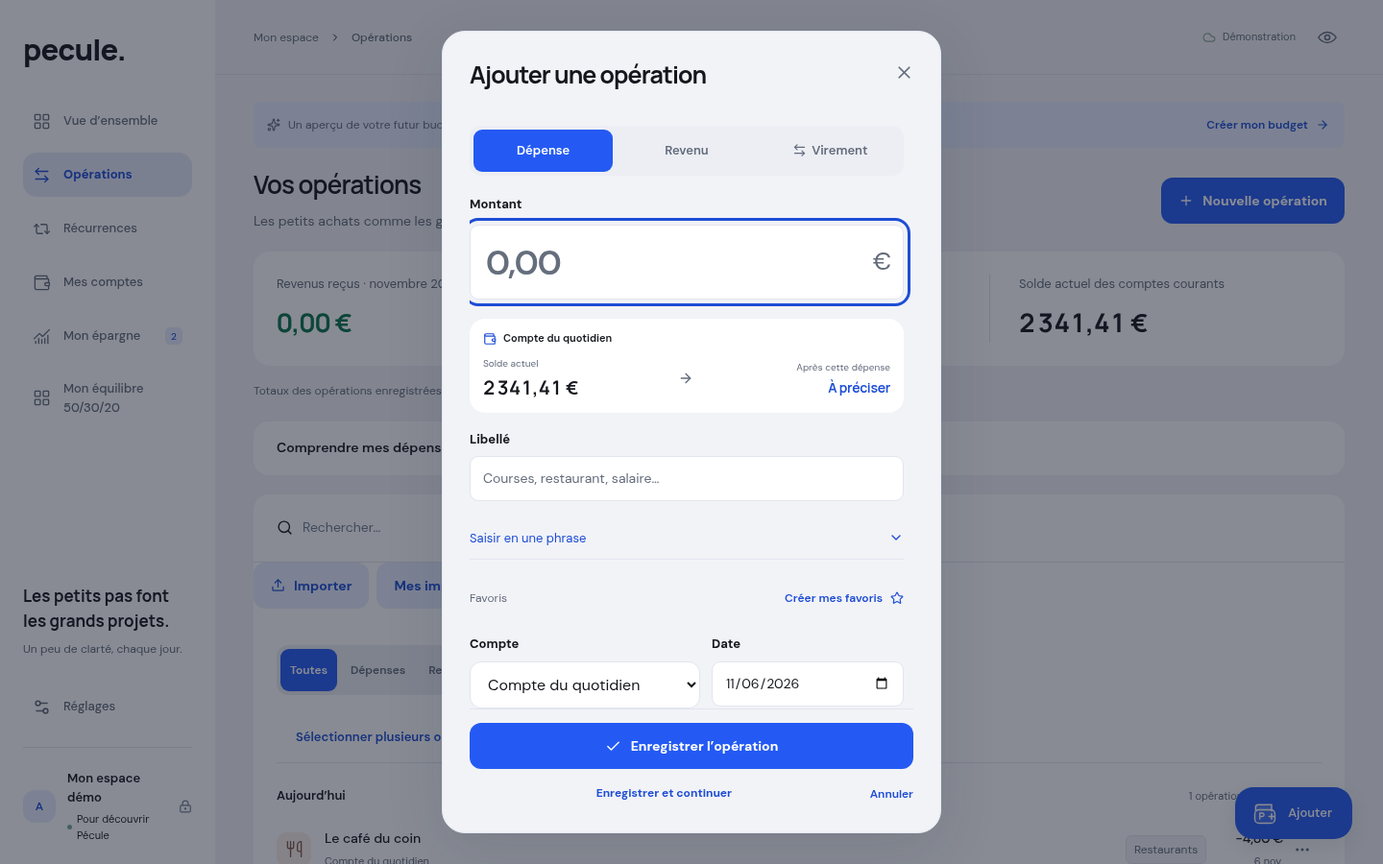
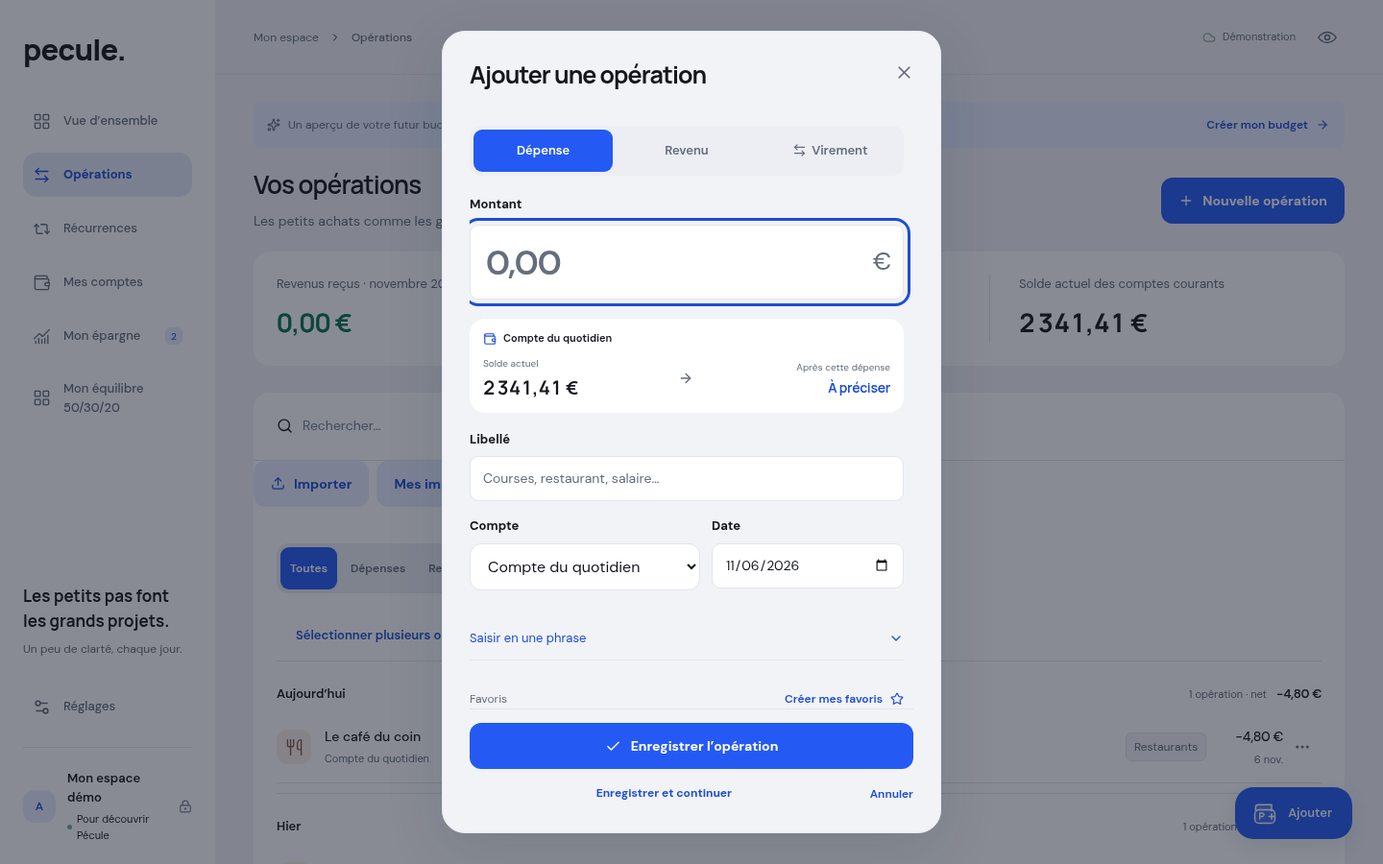
Improve mobile readability across budget pages and forms

diff --git a/app/budget-app.tsx b/app/budget-app.tsx
@@ -296,7 +296,7 @@ function BudgetAppContent({user}:BudgetAppProps){
       {page!=="overview"&&<div className="page-heading"><div><h1>{pageTitles[page]}</h1><p>{page==="plan"?"Vos besoins, vos envies et votre épargne, au même endroit.":page==="transactions"?"Les petits achats comme les grandes étapes.":page==="recurring"?"Les rentrées et les sorties d’argent, sans les surprises.":page==="accounts"?"Une vision claire de votre argent, où qu’il soit.":page==="goals"?"Chaque petit pas vous rapproche de ce qui compte.":"Un budget qui s’adapte à votre quotidien."}</p></div>{page!=="settings"&&page!=="plan"&&<button type="button" className="primary" onClick={()=>open({type:page==="accounts"?"account":page==="goals"?"goal":page==="recurring"?"rule":"transaction"})}><Plus size={16}/>{page==="accounts"?"Ajouter un compte":page==="goals"?"Créer un objectif":page==="recurring"?"Ajouter une récurrence":"Nouvelle opération"}</button>}</div>}
       <PendingOperations onEditingChange={setPendingEditing} onInspect={item=>open({type:"transaction",item})} entries={offline.entries} errors={offline.errors} error={offline.error} budget={b} hidden={hidden} working={offline.working} onRetry={()=>void offline.flush()} onChanged={()=>void offline.refresh()} onRemove={entry=>open({type:"confirm",title:"Retirer cette saisie locale ?",message:"Cette opération en attente sera retirée de cet appareil. Aucune opération du serveur ne sera supprimée.",action:async()=>{if(!await removePendingOperations(entry.userId,[entry.id],[entry]))throw new Error("Cette saisie a changé dans un autre onglet. Relisez-la avant de la retirer.");await offline.refresh();return true;}})}/>{page==="overview"&&<ClarteDashboard pending={offline.entries.length} budget={b} today={today} hidden={hidden} demo={demo} online={online} saving={busy} loadError={loadError} onWalletAccount={a=>open({type:"wallet-account",accountId:a.id})} onTransfer={()=>open({type:"transfer"})} onImport={()=>open({type:"import"})} onToggleHidden={()=>{setHidden(!hidden);}} onSettings={()=>navigate("settings")} onAdd={()=>b.accounts.length?open({type:"transaction"}):open({type:"account"})} onCalculate={()=>open({type:"calculation"})} onAccounts={()=>navigate("accounts")} onAccount={a=>{setAccountFilter(a.id);setTypeFilter("all");setMonth(today.slice(0,7));navigate("transactions");}} onAdjustAccount={a=>open({type:"balance",accountId:a.id})} onTransaction={t=>open({type:"transaction",item:t})} onUpcoming={t=>{const rule=b.rules.find(r=>r.id===t.ruleId);open(rule?{type:"rule",item:rule}:{type:"transaction",item:t});}} onTransactions={()=>{setMonth(today.slice(0,7));navigate("transactions");}} onRecurring={()=>navigate("recurring")} onGoals={()=>navigate("goals")} onPlan={()=>navigate("plan")} onAddAccount={()=>open({type:"account"})} capture={<CaptureRoutine budget={b} today={today} hidden={hidden} saving={busy} onAdd={()=>b.accounts.length?open({type:"transaction"}):open({type:"account"})} onFavorite={openFavorite} onFavorites={()=>open({type:"favorites"})} onReview={()=>open({type:"review"})} onCatchup={()=>open({type:"review",date:catchupDate(b,today)})} onReminders={()=>navigate("settings")}/>} chart={<ForecastOutlook budget={b} today={today} hidden={hidden}/>}/>}
       {page==="plan"&&<SpendingPlan budget={b} today={today} month={month} setMonth={setMonth} hidden={hidden} saving={busy} onSave={save} onOperations={()=>{setMonth(today.slice(0,7));navigate("transactions");}}/>}
-      {page==="transactions"&&<>{accountFilter!=="all"&&b.accounts.some(a=>a.id===accountFilter)&&<section className="account-ledger-context" aria-label="Compte sélectionné"><div><span>{b.accounts.find(a=>a.id===accountFilter)?.name}</span><strong>{m(accountBalance(b,accountFilter,today))}</strong><small>Solde actuel</small></div><button type="button" className="text-button" onClick={()=>setAccountFilter("all")}>Tous les comptes</button></section>}<section className="metric-strip"><div><span>Revenus reçus · {monthName}</span><strong className="positive">{m(monthIncome,true,true)}</strong></div><div><span>Dépenses enregistrées · {monthName}</span><strong>{m(monthSpent)}</strong></div><div><span>Solde actuel des comptes courants</span><strong>{m(o.total)}</strong></div></section><p className="metric-note">Totaux des opérations enregistrées pour la période et les filtres choisis, hors virements et opérations futures.</p><SpendingInsights key={month} budget={b} month={month} today={today} hidden={hidden}/><section ref={operationMotion} className="card transactions-card"><div className="toolbar"><div className="search-input"><Search size={17}/><input aria-label="Rechercher une opération" placeholder="Rechercher…" value={query} onChange={e=>setQuery(e.target.value)}/>{query&&<button type="button" className="icon-button" aria-label="Effacer la recherche" onClick={e=>{setQuery("");e.currentTarget.parentElement?.querySelector("input")?.focus();}}><X size={16}/></button>}</div>{compact&&<button type="button" className="secondary operation-filter-trigger" aria-label={`Filtrer les opérations, ${filterCount} filtre${filterCount>1?"s":""} actif${filterCount>1?"s":""}`} aria-haspopup="dialog" onClick={()=>open({type:"filters"})}><Funnel size={17}/>Filtrer{filterCount>0&&<span className="filter-count">{filterCount}</span>}</button>}</div><LedgerTools compact={compact}><div className="toolbar-actions"><button type="button" className="secondary compact" onClick={()=>open({type:"import"})}><Upload size={15}/>{importDraft?"Reprendre l’import":"Importer"}</button><button type="button" className="secondary compact" onClick={()=>open({type:"imports"})}>Mes imports</button><button type="button" className="secondary compact" onClick={()=>open({type:"match-transfers"})}>Associer des virements</button><button type="button" className="secondary compact" title="Exporter toutes les opérations en CSV" aria-label="Exporter en CSV" onClick={exportCSV}><Download size={18}/><span>Exporter CSV</span></button></div></LedgerTools>{!compact&&<OperationFilterControls values={filterValues} accounts={b.accounts} onChange={updateFilters}/>}{(query||typeFilter!=="all"||accountFilter!=="all"||month!==today.slice(0,7))&&<div className="active-filters" aria-label="Filtres actifs">{query&&<button type="button" onClick={()=>setQuery("")} aria-label="Retirer le filtre de recherche">Recherche : {query}<X size={14}/></button>}{typeFilter!=="all"&&<button type="button" onClick={()=>setTypeFilter("all")} aria-label="Retirer le filtre de type">{typeFilter==="expense"?"Dépenses":"Revenus"}<X size={14}/></button>}{accountFilter!=="all"&&<button type="button" onClick={()=>setAccountFilter("all")} aria-label="Retirer le filtre de compte">{b.accounts.find(a=>a.id===accountFilter)?.name}<X size={14}/></button>}{month!==today.slice(0,7)&&<button type="button" onClick={()=>setMonth(today.slice(0,7))} aria-label="Revenir au mois actuel">{parseDate(month+"-01").toLocaleDateString("fr-FR",{month:"long",year:"numeric"})}<X size={14}/></button>}<button type="button" className="text-button" onClick={()=>{setQuery("");setTypeFilter("all");setAccountFilter("all");setMonth(today.slice(0,7));}}>Réinitialiser les filtres</button></div>}{(()=>{const items=[...b.transactions].filter(t=>t.date.startsWith(month)&&(accountFilter==="all"||t.accountId===accountFilter)&&(typeFilter==="all"||(typeFilter==="expense"?t.amount<0:t.amount>0))&&(t.label+" "+t.category+" "+t.note).toLocaleLowerCase("fr").includes(query.toLocaleLowerCase("fr"))).sort((a,b)=>b.date.localeCompare(a.date));return items.length?<TransactionSelection key={JSON.stringify([query,typeFilter,accountFilter,month,transactionEpoch])} items={items} renderRow={t=>transactionRows([t],true)} formatAmount={n=>m(n,true,true)} dateLabel={date=>dateLabel(date,today)+(date>today?" · À venir":"")} onBulk={ids=>open({type:"bulk",ids})}/>:<Empty icon={Search} title="Rien pour le moment" description="Aucune opération ne correspond à cette période ou à vos filtres." action={<button type="button" className="text-button" onClick={()=>b.accounts.length?open({type:"transaction"}):open({type:"account"})}>Ajouter une opération <Plus size={14}/></button>}/>;})()}</section></>}
+      {page==="transactions"&&<>{accountFilter!=="all"&&b.accounts.some(a=>a.id===accountFilter)&&<section className="account-ledger-context" aria-label="Compte sélectionné"><div><span>{b.accounts.find(a=>a.id===accountFilter)?.name}</span><strong>{m(accountBalance(b,accountFilter,today))}</strong><small>Solde actuel</small></div><button type="button" className="text-button" onClick={()=>setAccountFilter("all")}>Tous les comptes</button></section>}<section className="metric-strip"><div><span>Revenus reçus · {monthName}</span><strong className="positive">{m(monthIncome,true,true)}</strong></div><div><span>Dépenses enregistrées · {monthName}</span><strong>{m(monthSpent)}</strong></div><div><span>Solde actuel des comptes courants</span><strong>{m(o.total)}</strong></div></section><section ref={operationMotion} className="card transactions-card"><div className="toolbar"><div className="search-input"><Search size={17}/><input aria-label="Rechercher une opération" placeholder="Rechercher…" value={query} onChange={e=>setQuery(e.target.value)}/>{query&&<button type="button" className="icon-button" aria-label="Effacer la recherche" onClick={e=>{setQuery("");e.currentTarget.parentElement?.querySelector("input")?.focus();}}><X size={16}/></button>}</div>{compact&&<button type="button" className="secondary operation-filter-trigger" aria-label={`Filtrer les opérations, ${filterCount} filtre${filterCount>1?"s":""} actif${filterCount>1?"s":""}`} aria-haspopup="dialog" onClick={()=>open({type:"filters"})}><Funnel size={17}/>Filtrer{filterCount>0&&<span className="filter-count">{filterCount}</span>}</button>}</div><LedgerTools compact={compact}><div className="toolbar-actions"><button type="button" className="secondary compact" onClick={()=>open({type:"import"})}><Upload size={15}/>{importDraft?"Reprendre l’import":"Importer"}</button><button type="button" className="secondary compact" onClick={()=>open({type:"imports"})}>Mes imports</button><button type="button" className="secondary compact" onClick={()=>open({type:"match-transfers"})}>Associer des virements</button><button type="button" className="secondary compact" title="Exporter toutes les opérations en CSV" aria-label="Exporter en CSV" onClick={exportCSV}><Download size={18}/><span>Exporter CSV</span></button></div></LedgerTools>{!compact&&<OperationFilterControls values={filterValues} accounts={b.accounts} onChange={updateFilters}/>}{(query||typeFilter!=="all"||accountFilter!=="all"||month!==today.slice(0,7))&&<div className="active-filters" aria-label="Filtres actifs">{query&&<button type="button" onClick={()=>setQuery("")} aria-label="Retirer le filtre de recherche">Recherche : {query}<X size={14}/></button>}{typeFilter!=="all"&&<button type="button" onClick={()=>setTypeFilter("all")} aria-label="Retirer le filtre de type">{typeFilter==="expense"?"Dépenses":"Revenus"}<X size={14}/></button>}{accountFilter!=="all"&&<button type="button" onClick={()=>setAccountFilter("all")} aria-label="Retirer le filtre de compte">{b.accounts.find(a=>a.id===accountFilter)?.name}<X size={14}/></button>}{month!==today.slice(0,7)&&<button type="button" onClick={()=>setMonth(today.slice(0,7))} aria-label="Revenir au mois actuel">{parseDate(month+"-01").toLocaleDateString("fr-FR",{month:"long",year:"numeric"})}<X size={14}/></button>}<button type="button" className="text-button" onClick={()=>{setQuery("");setTypeFilter("all");setAccountFilter("all");setMonth(today.slice(0,7));}}>Réinitialiser les filtres</button></div>}{(()=>{const items=[...b.transactions].filter(t=>t.date.startsWith(month)&&(accountFilter==="all"||t.accountId===accountFilter)&&(typeFilter==="all"||(typeFilter==="expense"?t.amount<0:t.amount>0))&&(t.label+" "+t.category+" "+t.note).toLocaleLowerCase("fr").includes(query.toLocaleLowerCase("fr"))).sort((a,b)=>b.date.localeCompare(a.date));return items.length?<TransactionSelection key={JSON.stringify([query,typeFilter,accountFilter,month,transactionEpoch])} items={items} renderRow={t=>transactionRows([t],true)} formatAmount={n=>m(n,true,true)} dateLabel={date=>dateLabel(date,today)+(date>today?" · À venir":"")} onBulk={ids=>open({type:"bulk",ids})}/>:<Empty icon={Search} title="Rien pour le moment" description="Aucune opération ne correspond à cette période ou à vos filtres." action={<button type="button" className="text-button" onClick={()=>b.accounts.length?open({type:"transaction"}):open({type:"account"})}>Ajouter une opération <Plus size={14}/></button>}/>;})()}</section><p className="metric-note">Totaux des opérations enregistrées pour la période et les filtres choisis, hors virements et opérations futures.</p><SpendingInsights key={month} budget={b} month={month} today={today} hidden={hidden}/></>}
       {page==="recurring"&&<><SubscriptionOverview budget={b} today={today} hidden={hidden} onEdit={item=>open({type:"rule",item})} onCreate={item=>{const proposal=transactionRecurrence(item,b,today);if(proposal)open({type:"rule",proposal,sourceTransactionId:item.id});else setToast("Ouvrez cette opération pour vérifier ses données avant de prévoir la suite.");}}/><div className="recurrence-filters" role="group" aria-label="État des récurrences">{[{id:"all",label:"Toutes"},{id:"active",label:"Actives"},{id:"paused",label:"En pause"},{id:"ended",label:"Terminées"}].map(f=><button type="button" key={f.id} aria-pressed={ruleFilter===f.id} onClick={()=>setRuleFilter(f.id)}>{f.label}<span>{b.rules.filter(r=>f.id==="all"||ruleState(r)===f.id).length}</span></button>)}</div><RecurringSuggestions budget={b} today={today} hidden={hidden} onReview={suggestion=>open({type:"rule",proposal:suggestion.rule})}/><AnimatedDetails className="recurrence-help"><summary><CalendarDays size={18}/>Dates et jours ouvrés<ChevronDown size={17}/></summary><p>Choisissez une date fixe ou le dernier jour du mois hors week-end et jours fériés. Les opérations sont ajoutées à leur échéance, à partir de la date choisie.</p></AnimatedDetails>{[true,false].map(income=>{const allRules=b.rules.filter(r=>(r.amount>0)===income),rules=allRules.filter(r=>ruleFilter==="all"||ruleState(r)===ruleFilter);return <section className="recurring-section" key={String(income)}><div className="section-heading"><h2>{income?"Les rentrées d’argent":"Les dépenses récurrentes"}</h2><span>{rules.length} récurrence{rules.length>1?"s":""}</span></div>{rules.length?<div ref={recurrenceMotion} className="rule-grid">{rules.map(r=>{const next=futureTransactions({...b,rules:[r],transactions:[]},shiftDate(today,1),shiftDate(today,370))[0];return <RecurringItem key={r.id} rule={r} state={ruleState(r)} accountName={b.accounts.find(a=>a.id===r.accountId)?.name} next={next} saving={busy} formatMoney={n=>m(n,true,true)} onEdit={()=>open({type:"rule",item:r})} onToggle={()=>{void save({...b,rules:b.rules.map(x=>x.id===r.id?{...x,active:!x.active}:x)},r.active?"Récurrence mise en pause.":"Récurrence réactivée.");}} onDelete={()=>remove("rule",r.id)}/>;})}</div>:<div className="card"><Empty icon={income?ArrowDownLeft:Repeat2} title={allRules.length?"Aucune récurrence dans cet état":income?"Prévoyez votre prochain revenu":"Anticipez les sorties d’argent"} description={allRules.length?"Choisissez Toutes pour retrouver vos récurrences.":income?"Salaire, allocation, revenu complémentaire : chacun a son rythme.":"Loyer, abonnement, assurance… gardez une longueur d’avance."} action={<button type="button" className="text-button" onClick={()=>b.accounts.length?open({type:"rule"}):open({type:"account"})}>Ajouter une récurrence <Plus size={14}/></button>}/></div>}</section>;})}</>}
       {page==="accounts"&&<><section className="metric-strip"><div><span>Votre argent au total</span><strong>{m(o.total+o.saved)}</strong></div><div><span>Disponible sur comptes courants</span><strong>{m(o.total)}</strong></div><div><span>À l’abri sur l’épargne</span><strong>{m(o.saved)}</strong></div></section><div className="section-heading"><h2>Vos comptes, simplement</h2><button type="button" className="secondary compact" onClick={()=>b.accounts.length>=2?open({type:"transfer"}):setToast("Ajoutez un deuxième compte pour enregistrer un virement.")}><ArrowLeftRight size={15}/>Virement entre comptes</button></div><div className="account-grid">{b.accounts.map(a=><article className="card account-card" key={a.id}><div className="account-card-top"><span className="bank-icon large" style={{"--item-color":walletColor(a.color)} as CSSProperties}><Wallet size={24}/></span><div className="card-actions"><button type="button" className="secondary compact record-edit" aria-label={`Modifier ${a.name}`} onClick={()=>open({type:"account",item:a})}><Pencil size={15}/>Modifier</button></div></div><span className="account-kind">{accountKind(a)}</span><h3>{a.name}</h3><p>{a.bank||"Compte personnel"}</p><div className="account-balance">{m(accountBalance(b,a.id,today))}</div><AccountVerification budget={b} accountId={a.id} today={today} saving={busy} onVerify={()=>open({type:"reconcile",accountId:a.id})}/><AccountActivity budget={b} accountId={a.id} today={today} hidden={hidden} onTransaction={t=>open({type:"transaction",item:t})} onUpcoming={t=>{const rule=b.rules.find(r=>r.id===t.ruleId);open(rule?{type:"rule",item:rule}:{type:"transaction",item:t});}} onAll={()=>{setAccountFilter(a.id);setTypeFilter("all");setMonth(today.slice(0,7));navigate("transactions");}}/><button type="button" className="secondary full-width balance-adjust-trigger" aria-label={`Ajuster le solde de ${a.name}`} disabled={busy} onClick={()=>open({type:"balance",accountId:a.id})}><Pencil size={15}/>Ajuster le solde</button><div className="record-danger"><button type="button" className="destructive-action" aria-label={`Supprimer ${a.name}`} onClick={()=>remove("account",a.id)}><Trash2 size={15}/>Supprimer ce compte</button></div></article>)}<button className="add-tile" type="button" onClick={()=>open({type:"account"})}><span><Plus size={23}/></span><strong>Un compte de plus ?</strong><small>Courant, épargne ou espèces.<br/>À vous de choisir.</small></button></div><div className="info-callout subtle"><LockKeyhole size={19}/><div><strong>Chacun ses comptes, chacun son espace.</strong><p>Vos comptes sont liés à votre connexion personnelle. Ajouter un compte ici ne crée pas de connexion avec votre banque.</p></div></div></>}
       {page==="goals"&&<><div className="goal-intro"><div><h2>{m(b.goals.reduce((s,g)=>s+g.saved,0),false)} <span>déjà consacrés à vos projets.</span></h2><p>Le suivi de vos objectifs est indépendant du solde de vos livrets.</p></div><div className="goal-intro-icon"><Sparkles size={32} strokeWidth={1.2}/></div></div><div className="goal-grid">{b.goals.map(g=>{const progress=Math.min(100,Math.max(0,g.saved/g.target*100));return <article className="card goal-card" key={g.id}><div className="goal-card-top"><span className="goal-icon" style={{"--item-color":walletColor(g.color)} as CSSProperties}><GoalIllustration icon={g.icon} progress={hidden?0:progress}/></span><div className="card-actions"><button type="button" className="secondary compact record-edit" aria-label={`Modifier ${g.name}`} onClick={()=>open({type:"goal",item:g})}><Pencil size={15}/>Modifier</button></div></div><h3>{g.name}</h3><p>{g.deadline?`À votre rythme, jusqu’au ${shortDate(g.deadline)} ${g.deadline.slice(0,4)}`:"Un projet qui avance à votre rythme"}</p><div className="goal-amount"><strong>{m(g.saved,false)}</strong><span>sur {m(g.target,false)}</span></div><div className="progress-track" role="progressbar" aria-label={`Progression de ${g.name}`} aria-valuemin={0} aria-valuemax={100} aria-valuenow={hidden?undefined:Math.round(progress)} aria-valuetext={hidden?"Progression masquée":undefined}><span style={{width:hidden?"0%":progress+"%","--item-color":walletColor(g.color)} as CSSProperties}/></div><p className="goal-remaining">{!hidden&&g.saved>=g.target?"Objectif atteint":<><strong>{m(Math.max(0,g.target-g.saved),false)}</strong> restent à mettre de côté</>}</p><div className="goal-progress-label"><span>{hidden?"Progression masquée":`${Math.round(progress)} % du chemin`}</span><strong>{m(g.monthly,false)} / mois réservés</strong></div><button type="button" className="secondary full-width" onClick={()=>open({type:"contribution",goal:g})}><Plus size={15}/>Enregistrer un versement</button><div className="record-danger"><button type="button" className="destructive-action" aria-label={`Supprimer ${g.name}`} onClick={()=>remove("goal",g.id)}><Trash2 size={15}/>Supprimer cet objectif</button></div></article>;})}<button className="add-tile" type="button" onClick={()=>open({type:"goal"})}><span><Plus size={23}/></span><strong>Et votre prochain projet ?</strong><small>Une envie, un voyage ou<br/>simplement l’esprit tranquille.</small></button></div><div className="info-callout subtle"><Info size={19}/><div><strong>Votre épargne reste un choix.</strong><p>Choisissez votre objectif et votre réserve mensuelle. Cette réserve réduit le disponible sans déplacer d’argent. Un versement enregistré entre un compte courant et un compte d’épargne réduit la réserve restante du mois.</p></div></div></>}

diff --git a/app/wallet.css b/app/wallet.css
@@ -319,3 +319,100 @@
 .pending-operations li b { grid-column:2; grid-row:1; overflow-wrap:anywhere; max-width:140px; font-variant-numeric:tabular-nums; }
 .pending-operations li button { min-height:44px; }
 @media(max-width:480px){.subscription-totals{grid-template-columns:minmax(0,1fr);gap:12px}.subscription-list{font-size:13px}.subscription-list > li{flex-wrap:wrap}.subscription-list > li > div{min-width:150px}}
+
+/* iPhone reading scale: names, dates and decisions stay legible without zoom. */
+@media(max-width:760px) {
+ :root { --mobile-body:16px;--mobile-meta:14px;--mobile-navigation:12px;--control-border:#858fa1; }
+ :root[data-theme="dark"] { --control-border:#748097; }
+ .app-shell { font-size:var(--mobile-body);line-height:1.5; }
+ #main-content :is(p,small,dt,.field-hint,.metric-note,.table-footer,.table-count,.clarte-footer) { font-size:var(--mobile-meta);line-height:1.6; }
+ #main-content :is(button,a.text-button,.restore-backup),.modal :is(button,a.text-button) { font-size:var(--mobile-body); }
+ #main-content :is(.page-heading p,.settings-group>header p,.settings-card>p,.settings-panel>p,.account-card>p,.goal-card>p) { font-size:var(--mobile-body); }
+ .app-shell .demo-banner { gap:10px;padding:12px 16px; }
+ .app-shell .demo-banner :is(span,button) { font-size:var(--mobile-meta);line-height:1.5; }
+ .app-shell .field>span:first-child,.modal .field>span:first-child { font-size:15px;line-height:1.5; }
+ .app-shell .field :is(small,.field-hint),.modal :is(.field-hint,.field small,.form-error,.field-error,.draft-status) { font-size:var(--mobile-meta);line-height:1.6; }
+ .app-shell :is(input:not([type=checkbox]):not([type=radio]),select,textarea),.auth-shell :is(input,select,textarea) { border-color:var(--control-border); }
+ .modal :is(p,small,summary,dt,dd,.bank-import-confirm,.bank-import-source,.bank-import-pages,.import-steps,.capture-shortcuts>div:first-child>span) { font-size:var(--mobile-meta);line-height:1.6; }
+ .modal .capture-context-grid { grid-template-columns:minmax(0,1fr);gap:0; }
+ .modal .capture-type-picker :is(label>span,button),.modal.capture-modal .capture-footer :is(.secondary,.operation-cancel),.modal .capture-shortcuts .text-button { font-size:var(--mobile-meta); }
+ .modal :is(.balance-preview-account,.balance-preview-values>div>span,.balance-preview-hint,.balance-preview-warning) { font-size:var(--mobile-meta); }
+ .modal-backdrop[data-keyboard-open=true] .balance-preview-account { font-size:var(--mobile-meta); }
+ .modal .balance-preview-values { grid-template-columns:minmax(0,1fr);gap:8px; }
+ .modal .balance-preview-values>div { display:flex;justify-content:space-between;align-items:baseline;gap:12px;text-align:left; }
+ .modal .balance-preview-values>div>span { margin:0; }
+ .modal .balance-preview-values>svg { display:none; }
+ .modal .balance-preview-values strong { font-size:20px;min-width:0; }
+ .modal .balance-preview-values strong[data-long=true] { font-size:17px; }
+ .wallet-accounts-heading>div>span { font-size:var(--mobile-meta); }
+ .wallet-accounts-heading>div>strong { font-size:var(--mobile-body); }
+ .wallet-card .wallet-card-top>:is(strong,b) { font-size:var(--mobile-meta);line-height:20px; }
+ .wallet-card .wallet-card-bottom { font-size:var(--mobile-meta);line-height:1.5; }
+ #main-content .wallet-quick-actions>button { font-size:var(--mobile-meta);min-height:76px;gap:8px; }
+ #main-content .wallet-tabs>button { font-size:15px; }
+ .wallet-tabs { gap:20px; }
+ .wallet-month-summary :is(span,small) { font-size:var(--mobile-meta);line-height:1.5; }
+ .wallet-month-summary { gap:12px;padding:16px; }
+ .wallet-month-summary>div+div { padding-left:12px; }
+ .wallet-dashboard .clarte-section-title h2 { font-size:20px; }
+ #main-content .wallet-dashboard .clarte-section-title .text-button { font-size:var(--mobile-meta); }
+ .wallet-dashboard .clarte-transaction { min-height:76px;padding:14px 10px; }
+ .wallet-dashboard .clarte-transaction :is(strong,b),.wallet-goal-row :is(strong,b) { font-size:var(--mobile-body); }
+ .wallet-dashboard .clarte-transaction small,.wallet-goal-row small { font-size:var(--mobile-meta); }
+ .wallet-dashboard .clarte-transaction strong { white-space:normal;overflow-wrap:anywhere; }
+ .wallet-goal-row { flex-wrap:wrap; }
+ .wallet-goal-row>b { margin-left:auto; }
+ #main-content .wallet-capture>summary,.verification-compact .verification-summary strong { font-size:var(--mobile-meta); }
+ .wallet-account-modal :is(.wallet-account-hero>span:not(.wallet-pull-handle),.wallet-account-facts) { font-size:var(--mobile-meta); }
+ .wallet-account-facts { flex-wrap:wrap; }
+ #main-content .transaction-row.full .transaction-title>strong,.account-activity-row strong { font-size:var(--mobile-body); }
+ #main-content .transaction-row.full .transaction-title>small,#main-content .transaction-mobile-category { font-size:var(--mobile-meta); }
+ .transaction-title>small { white-space:normal;overflow-wrap:anywhere; }
+ .transaction-title>strong { white-space:normal;overflow-wrap:anywhere; }
+ .transaction-row.full { padding-block:16px; }
+ .transaction-row .transaction-amount,.account-activity-row>b { font-size:var(--mobile-body); }
+ #main-content .date-group>strong { font-size:var(--mobile-meta); }
+ #main-content .day-summary b { font-size:var(--mobile-body); }
+ .date-group { gap:12px; }
+ #main-content :is(.account-kind,.account-type,.account-activity h4,.rule-identity p,.rule-amount small,.rule-bottom small,.goal-amount>span,.goal-progress-label,.goal-progress-label strong,.plan-usage>span,.month-control>strong,.plan-envelope dl,.plan-envelope dd,.plan-explanation,.plan-explanation a,.section-heading>span,.settings-index a) { font-size:var(--mobile-meta); }
+ #main-content :is(.account-activity>summary,.ledger-tools>summary,.plan-settings>summary,.recurrence-help>summary,.goal-card .goal-remaining strong,.add-tile>strong) { font-size:var(--mobile-body); }
+ .goal-progress-label,.rule-bottom { flex-wrap:wrap;gap:8px 12px; }
+ .rule-card .rule-identity { min-width:0; }
+ .rule-card .rule-identity h3 { overflow-wrap:anywhere; }
+ .rule-card .status-pill { font-size:var(--mobile-meta); }
+ .app-shell .suggestion-list :is(strong,b),.modal .suggestion-list :is(strong,b) { font-size:var(--mobile-body); }
+ .app-shell .suggestion-list small,.modal .suggestion-list small,.modal .suggestion-heading>span { font-size:var(--mobile-meta); }
+ .modal .suggestion-heading h3 { font-size:var(--mobile-body); }
+ .modal .gesture-preview p,.app-shell .operation-swipe-actions>button { font-size:var(--mobile-meta); }
+ .page-transactions .page-heading>button.primary,.page-transactions .page-heading>div>p { display:none; }
+ .page-transactions .page-heading { margin-block:8px 16px; }
+ .page-transactions .metric-strip { padding:16px;gap:12px;margin-bottom:20px; }
+ .page-transactions .metric-strip>div { padding:0; }
+ .page-transactions .metric-strip>div>span { font-size:var(--mobile-meta);line-height:1.5; }
+ .page-transactions .metric-strip strong { font-size:22px;margin-top:6px; }
+ .page-transactions .metric-strip>div:last-child { padding-top:12px; }
+ .page-transactions .metric-note { margin-top:20px; }
+ .app-shell .mobile-dock .mobile-nav.floating-nav>button { font-size:var(--mobile-navigation); }
+ .app-shell .settings-brand :is(span,small) { font-size:var(--mobile-meta); }
+}
+@media(max-width:760px) {
+ .transaction-row .transaction-amount strong { font-size:var(--mobile-body); }
+ .app-shell .mobile-dock .mobile-nav.floating-nav>button { line-height:1.25; }
+ .auth-shell :is(p,.field-hint,.field small) { font-size:var(--mobile-meta,14px);line-height:1.6; }
+ .auth-shell .field>span:first-child { font-size:15px; }
+}
+@media(max-width:359px) {
+ .app-shell .mobile-dock { --dock-expanded-width:calc(100vw - 16px);left:8px;right:8px;gap:8px; }
+ .app-shell .mobile-dock .mobile-nav.floating-nav>button { font-size:11px; }
+}
+@media(max-width:760px) {
+ .app-shell :is(.chart-axis,.chart-dates,.chart-summary>span,.projection-control>span,.projection-table) { font-size:var(--mobile-meta);line-height:1.5; }
+}
+@media(max-width:760px) {
+ #main-content button.wallet-manage-title { font-size:24px; }
+}
+@media(max-width:760px) {
+ .modal .file-drop strong { font-size:var(--mobile-body); }
+ .modal .file-drop span { font-size:var(--mobile-meta);line-height:1.6; }
+ .modal .import-journey-copy :is(strong,ol) { font-size:var(--mobile-meta);line-height:1.6; }
+}

diff --git a/app/quick-operation-form.tsx b/app/quick-operation-form.tsx
@@ -19,7 +19,7 @@ export default function QuickOperationForm(p:Props){
  const [amountError,setAmountError]=useState('');
  const favorites=p.budget.settings.capture?.favorites??[];
  function submit(event:FormEvent<HTMLFormElement>){event.preventDefault();const value=parseAmount(String(new FormData(event.currentTarget).get('amount')??''));if(value===null||value<=0){setAmountError('Indiquez un montant supérieur à zéro, dans la limite autorisée.');event.currentTarget.querySelector<HTMLInputElement>('input[name="amount"]')?.focus();return;}setAmountError('');p.onSubmit(event);}
- const context=<><OperationSuggestions budget={p.budget} today={p.today} hidden={p.hidden} saving={p.saving} accountId={p.accountId} direction={p.direction} inForm onUse={(f,context)=>p.onFavorite(f,context!)} /><QuickPhrase budget={p.budget} direction={p.direction} hidden={p.hidden} saving={p.saving} onUse={p.onFavorite}/><section className="capture-shortcuts" aria-label="Favoris de saisie"><div><span>Favoris</span><button type="button" className="text-button" disabled={p.saving} onClick={p.onFavorites}>{favorites.length?"Gérer":"Créer mes favoris"}<Star size={14}/></button></div>{favorites.length?<div className="favorite-shortcuts">{favorites.slice(0,6).map(f=><button type="button" className="secondary" key={f.id} disabled={p.saving} onClick={event=>{const form=event.currentTarget.form;if(!form)return;const values=new FormData(form);p.onFavorite(f,{accountId:String(values.get("account")??p.accountId),date:String(values.get("date")??p.date)});}}><MerchantIcon label={f.label} merchantId={f.merchantId} customIconUrl={f.customIconUrl} fallback={<CategoryIcon category={f.category} size={16}/>}/><span>{f.label}{f.amount!==undefined&&<small>{p.hidden?'•••• €':money(f.amount)}</small>}</span></button>)}</div>:null}</section><div className="capture-context-grid"><FormField label="Compte"><select name="account" defaultValue={p.accountId}>{p.budget.accounts.map(a=><option key={a.id} value={a.id}>{a.name}</option>)}</select></FormField><FormField label="Date"><input name="date" type="date" min="2000-01-01" max="2100-12-31" defaultValue={p.date} required/></FormField></div></>;
+ const context=<><div className="capture-context-grid"><FormField label="Compte"><select name="account" defaultValue={p.accountId}>{p.budget.accounts.map(a=><option key={a.id} value={a.id}>{a.name}</option>)}</select></FormField><FormField label="Date"><input name="date" type="date" min="2000-01-01" max="2100-12-31" defaultValue={p.date} required/></FormField></div><OperationSuggestions budget={p.budget} today={p.today} hidden={p.hidden} saving={p.saving} accountId={p.accountId} direction={p.direction} inForm onUse={(f,context)=>p.onFavorite(f,context!)} /><QuickPhrase budget={p.budget} direction={p.direction} hidden={p.hidden} saving={p.saving} onUse={p.onFavorite}/><section className="capture-shortcuts" aria-label="Favoris de saisie"><div><span>Favoris</span><button type="button" className="text-button" disabled={p.saving} onClick={p.onFavorites}>{favorites.length?"Gérer":"Créer mes favoris"}<Star size={14}/></button></div>{favorites.length?<div className="favorite-shortcuts">{favorites.slice(0,6).map(f=><button type="button" className="secondary" key={f.id} disabled={p.saving} onClick={event=>{const form=event.currentTarget.form;if(!form)return;const values=new FormData(form);p.onFavorite(f,{accountId:String(values.get("account")??p.accountId),date:String(values.get("date")??p.date)});}}><MerchantIcon label={f.label} merchantId={f.merchantId} customIconUrl={f.customIconUrl} fallback={<CategoryIcon category={f.category} size={16}/>}/><span>{f.label}{f.amount!==undefined&&<small>{p.hidden?'•••• €':money(f.amount)}</small>}</span></button>)}</div>:null}</section></>;
  const details=<><FormField label="Une note ? (facultatif)"><textarea className="resize-none" style={{resize:'none',minHeight:120}} name="note" defaultValue={p.note} rows={3} maxLength={1000} placeholder="Un détail à garder en tête"/></FormField><label className="bank-import-confirm"><input type="checkbox" name="saveFavorite" disabled={p.offline}/><span>Ajouter cette opération à mes favoris</span></label></>;
  return <ValidatedForm className="quick-operation-form" draftKey={p.draftKey} onReset={()=>{setAmountError('');p.onReset();}} onSubmit={submit}><div className="capture-body"><div className="capture-type-picker" role="group" aria-label="Type d’opération">{[{value:'expense',label:'Dépense'},{value:'income',label:'Revenu'}].map(type=><label key={type.value}><input type="radio" name="direction" value={type.value} checked={p.direction===type.value} onChange={()=>p.onDirection(type.value)} disabled={p.saving}/><span>{type.label}</span></label>)}<button type="button" disabled={p.saving} aria-haspopup="dialog" aria-label="Virement entre comptes" onClick={p.onTransfer}><ArrowLeftRight size={15}/><span>Virement</span></button></div><div className="capture-amount"><FormField label="Montant" error={amountError||undefined}><span className="amount-input"><input name="amount" type="text" inputMode="decimal" pattern={String.raw`[0-9\s\u00a0\u202f]+([.,][0-9]{1,2})?`} autoComplete="off" maxLength={24} defaultValue={p.amount===undefined?'':String(p.amount/100)} required placeholder="0,00" onChange={()=>setAmountError('')} autoFocus onFocus={e=>e.currentTarget.select()}/><span>€</span></span></FormField></div><OperationBalancePreview budget={p.budget} today={p.today} hidden={p.hidden} accountId={p.accountId} amount={p.amount} date={p.date} direction={p.direction}/><MerchantFields compact remember={!p.offline} categoryRules={p.budget.settings.categoryRules} initialLabel={p.label} initialCategory={p.category} initialMerchantId={p.merchantId} initialCustomIconUrl={p.customIconUrl} direction={p.direction} afterLabel={context} extraDetails={details} optionsTitle="Catégorie, logo et note"/>{p.error&&<ErrorMessage>{p.error}</ErrorMessage>}</div><div className="capture-footer form-actions"><SubmitButton busy={p.saving} icon={<Check size={16}/>}>Enregistrer l’opération</SubmitButton><button type="submit" name="afterSave" value="continue" className="secondary" disabled={p.saving}>Enregistrer et continuer</button><button type="button" className="text-button operation-cancel" disabled={p.saving} onClick={p.onCancel}>Annuler</button></div></ValidatedForm>;
 }

diff --git a/public/offline.css b/public/offline.css
@@ -1,3 +1,6 @@
 @font-face{font-family:DM Sans;src:url('/fonts/dm-sans-latin.woff2') format('woff2');font-display:swap}@font-face{font-family:Manrope;src:url('/fonts/manrope-latin.woff2') format('woff2');font-display:swap}:root{color-scheme:dark;--bg:#090b10;--card:#171a22;--ink:#f3f5fa;--muted:#a8b0c0;--line:#303541;--blue:#8caaff}*{box-sizing:border-box}body{margin:0;background:var(--bg);color:var(--ink);font:16px/1.6 'DM Sans',-apple-system,BlinkMacSystemFont,sans-serif}main{max-width:620px;margin:auto;padding:24px 20px max(32px,env(safe-area-inset-bottom))}header{display:flex;align-items:center;justify-content:space-between;gap:16px;margin-bottom:32px}h1,h2{font-family:Manrope,sans-serif;line-height:1.3}h1{font-size:28px}h2{font-size:20px;margin-top:32px}p{overflow-wrap:anywhere}a{color:var(--blue);min-height:44px;display:inline-flex;align-items:center}form{display:grid;gap:16px;padding-block:20px}form[hidden]{display:none}label{display:grid;gap:6px;font-weight:600}input,select,textarea,button{font:inherit;min-width:0;color:var(--ink);border:1px solid var(--line);border-radius:12px;background:var(--card);padding:12px;min-height:48px;width:100%}textarea{resize:none}button{cursor:pointer;white-space:normal;overflow-wrap:anywhere}button:disabled{opacity:.6}button.primary{background:#245af3;color:#fff;border:0;font-weight:600}button:focus-visible,a:focus-visible,input:focus-visible,select:focus-visible,textarea:focus-visible{outline:3px solid var(--blue);outline-offset:3px}#message{color:var(--blue)}ul{list-style:none;padding:0}li{padding:20px 0;border-bottom:1px solid var(--line);overflow-wrap:anywhere}li button{width:auto;margin:4px 8px 4px 0;font-size:14px}li strong{display:block}li p,.hint{color:var(--muted);font-size:14px}::selection{background:#245af3;color:#fff}
 
 :root.theme-light{color-scheme:light;--bg:#f2f3f7;--card:#fff;--ink:#15171d;--muted:#626b7b;--line:#d8dde7;--blue:#1d4dd5}
+
+/* Native field boundaries follow the mobile Wallet control contrast. */
+:root{--control-border:#748097}:root.theme-light{--control-border:#858fa1}input,select,textarea{border-color:var(--control-border)}

diff --git a/docs/mobile-readability.md b/docs/mobile-readability.md
@@ -1,0 +1,25 @@
+# Lisibilité sur iPhone — 12 novembre 2026
+
+## Constats vérifiés
+
+Deux audits indépendants des composants et captures, complétés par un relevé des styles calculés sur les sept pages, ont identifié :
+
+- Métadonnées de comptes, dates, catégories et légendes souvent à 9–11 px ; montants et titres de lignes parfois à 12–13 px.
+- Journal repoussé par l’introduction, l’action d’ajout en doublon et l’analyse détaillée avant les opérations.
+- Sélecteur de compte tronqué à 390 px dans la saisie, alors que le compte conditionne l’opération.
+- Bordure de champ sombre presque confondue avec son panneau : champ #222735, bordure #2b303d, panneau #202531.
+- Actions secondaires et sélection du CSV restées petites malgré des champs à 16 px.
+
+## Corrections
+
+La source canonique `app/wallet.css` définit les rôles mobiles : 16 px pour corps/actions, 14 px pour métadonnées, 15 px pour labels. La navigation conserve un rôle compact explicite : 12 px, 11 px sous 360 px, avec largeur et interligne adaptés. Les textes importants se replient ; montants, titres et couleurs des comptes conservent leur hiérarchie. Les textes de graphiques sont inclus dans la même échelle.
+
+`--control-border` distingue une zone de saisie d’un séparateur de liste : #858fa1 clair, #748097 sombre. Le formulaire statique hors connexion adapte ces valeurs. Les champs natifs et leur focus restent canoniques.
+
+Le journal précède le bilan et son explication détaillée. Sur téléphone, l’introduction est compacte et le + global assure l’ajout. Dans la saisie, compte/date précèdent les aides et occupent chacun toute une ligne ; les soldes avant/après deviennent deux lignes lisibles. Les noms des champs, callbacks, brouillons, confirmations et calculs sont conservés.
+
+## Vérification
+
+`tests/e2e/mobile-readability.mjs` utilise seulement la démonstration publique : sept pages, prévisions, détail de compte, édition d’opération, ajout, options et import. Largeurs 320/390/430, clair/sombre, Chromium et WebKit. Les assertions portent sur tailles calculées, limites du viewport, présence du journal, hiérarchie des totaux, contraste des bordures, compte complet et compte/date séparés. Aucun PUT ni budget personnel.
+
+`tests/e2e/operation-balance-preview.mjs` couvre soldes, changement de compte, dates, brouillons, confidentialité et sauvegarde enchaînée en démonstration ; les références Wallet vérifient aussi les écrans ordinateur et axe. Ces essais WebKit ne remplacent pas un test matériel dans une PWA iPhone.

diff --git a/DESIGN.md b/DESIGN.md
@@ -325,3 +325,10 @@ Le premier placement de la maquette est approuvé : compte identifié et compara
 
 ## Abonnements et attente hors connexion — 11 novembre 2026
 La section Abonnements réutilise les cartes, listes et tokens Wallet : deux totaux, puis paiements/récurrences, action explicite Gérer ou Prévoir la suite. Les hausses sont des signaux à vérifier, masqués avec les montants. L’attente locale utilise AnimatedDetails et les formulaires canoniques, sans nouvelle palette ni mouvement. Le formulaire statique hors connexion reprend les fontes, surfaces, cibles de 44 px et thèmes Wallet, avec des champs natifs de 16 px minimum. Il ne présente aucun solde fictif. Voir `docs/subscriptions-offline.md` pour préparation, limites et synchronisation.
+
+## Lisibilité iPhone — 12 novembre 2026
+Retour utilisateur : textes et contrôles difficiles à lire sur téléphone. `wallet.css` possède désormais l’échelle mobile : corps/actions 16 px, métadonnées 14 px et labels de formulaire 15 px. Les libellés du dock restent à 12 px (11 px sous 360 px) avec une ligne de hauteur explicite et la largeur adaptée ; ses gestes et noms accessibles sont conservés. La pile Wallet, ses montants et sa palette restent identiques. Les graphes utilisent le même plancher de métadonnées.
+
+La bordure des contrôles utilise `--control-border` (#858fa1 clair, #748097 sombre), distincte de `--line` réservée aux séparateurs. Le formulaire statique hors connexion est l’adaptateur autonome de ces deux valeurs. Les paragraphes d’aide restent à 14 px ; descriptions principales et décisions à 16 px. Les définitions financières gardent leurs grands montants.
+
+Le journal précède l’analyse des dépenses et son explication détaillée. L’introduction mobile est compacte, l’ajout reste accessible par le + global. En saisie rapide, compte et date précèdent les aides et occupent chacun une ligne sur téléphone ; les deux soldes de l’aperçu deviennent deux lignes lisibles. Aucun calcul, formulaire natif, brouillon, mutation ou propriétaire de défilement n’est remplacé. Preuves : `tests/e2e/mobile-readability.mjs`, références Wallet et suite d’aperçu de solde.

diff --git a/UX-CONTRACT.md b/UX-CONTRACT.md
@@ -297,3 +297,6 @@ Les propriétaires de gestes existants annulent les maintiens/glissements quand 
 
 ## Opérations locales et abonnements
 Les abonnements sont les dépenses classées explicitement Abonnements ; leurs prévisions réutilisent les échéances canoniques. L’attente hors connexion conserve seulement une nouvelle saisie et ses intentions, pas une copie réinscriptible de tout le budget. Une transaction IndexedDB confirmée autorise le retour « conservée sur cet appareil » ; seule la confirmation serveur modifie le budget affiché. La reprise relit la révision et vérifie le propriétaire ; collisions et références incompatibles nécessitent une correction. Retrait local et suppression serveur restent distincts. Une déconnexion verrouille l’accès local, et une réponse de préparation ancienne ne peut le réactiver. Voir `docs/subscriptions-offline.md` et `tests/e2e/subscriptions-offline.mjs`.
+
+## Lecture et priorités sur téléphone
+Les sept pages suivent l’échelle mobile de DESIGN.md. Le journal apparaît avant l’analyse détaillée ; le + global conserve l’ajout quand le doublon du titre est retiré sur mobile. Le formulaire d’ajout affiche le compte et la date avant les aides facultatives, sans modifier leurs valeurs, brouillons, callbacks ou validation. Les limites des champs se distinguent des panneaux dans les deux thèmes. Les cibles, zoom, défilement, menus, état privé et commandes natives restent canoniques.

diff --git a/docs/design-system.md b/docs/design-system.md
@@ -86,3 +86,6 @@ Propriétaires additionnels : `AccountVerification` pour la preuve de rapprochem
 
 ### Abonnements et saisie hors connexion
 `SubscriptionOverview` réutilise `.card`, les listes Wallet et l’éditeur de récurrence de BudgetApp. `PendingOperations` réutilise AnimatedDetails, ValidatedForm et la confirmation canonique pour le retrait local. `public/offline.html` est une variante statique limitée, utilisant les contrôles natifs, les fontes et les thèmes Wallet ; elle ne monte aucun second système de dialogue. Propriété des calculs : `lib/subscriptions.ts` et budget.ts. Propriété de la reprise : `useOfflineQueue`, `offline-reconcile.ts`, `offline-store.ts`, BudgetSync et API revisionnée. Vérifications : tests unitaires et `tests/e2e/subscriptions-offline.mjs`.
+
+### Lecture iPhone
+L’échelle et les adaptations mobiles sont possédées par le dernier bloc mobile de `app/wallet.css` : corps/actions16, métadonnées14, labels15 px, navigation12/11 px. `--control-border` sépare les limites de saisie des simples lignes de liste. `public/offline.css` adapte ces couleurs pour son document autonome. La taille d’un bouton ne doit pas réduire un titre de compte ni les valeurs financières. Vérification : `tests/e2e/mobile-readability.mjs` à320/390/430 px, clair/sombre, Chromium/WebKit ; référence ordinateur en parallèle.

diff --git a/tests/e2e/README.md b/tests/e2e/README.md
@@ -164,3 +164,6 @@ Les unités attendues pour cette livraison sont au nombre de 122, avec les règl
 
 ### Abonnements et saisie hors connexion
 `node tests/e2e/subscriptions-offline.mjs` nécessite une compilation et un serveur Next local sur 3001 pour ses CSS. Le scénario embarque les vrais composants de l’application dans un serveur QA isolé, sans compte réel ni données personnelles. Il teste IndexedDB/service worker, rechargement hors réseau, reprise sans doublon, réponse perdue avec et sans détection du réseau, préférences, correction concurrente, référence changée, session différente et quota. `PECULE_E2E_ENGINE=webkit` sélectionne WebKit ; `PECULE_E2E_OUTPUT` personnalise les artefacts. Voir `docs/subscriptions-offline.md`.
+
+### Lisibilité iPhone
+`node tests/e2e/mobile-readability.mjs` utilise la démonstration locale sur3001 : sept pages et panneaux, 320/390/430 px, clair/sombre, plancher typographique, compte/date, bordure des champs et limites réelles. `PECULE_E2E_ENGINE=webkit` et `PECULE_E2E_OUTPUT` sélectionnent moteur et artefacts. Aucun compte personnel ni PUT. Les références figées continuent d’utiliser3002 avec leur horloge de référence ; ce scénario utilise l’horloge réelle.
